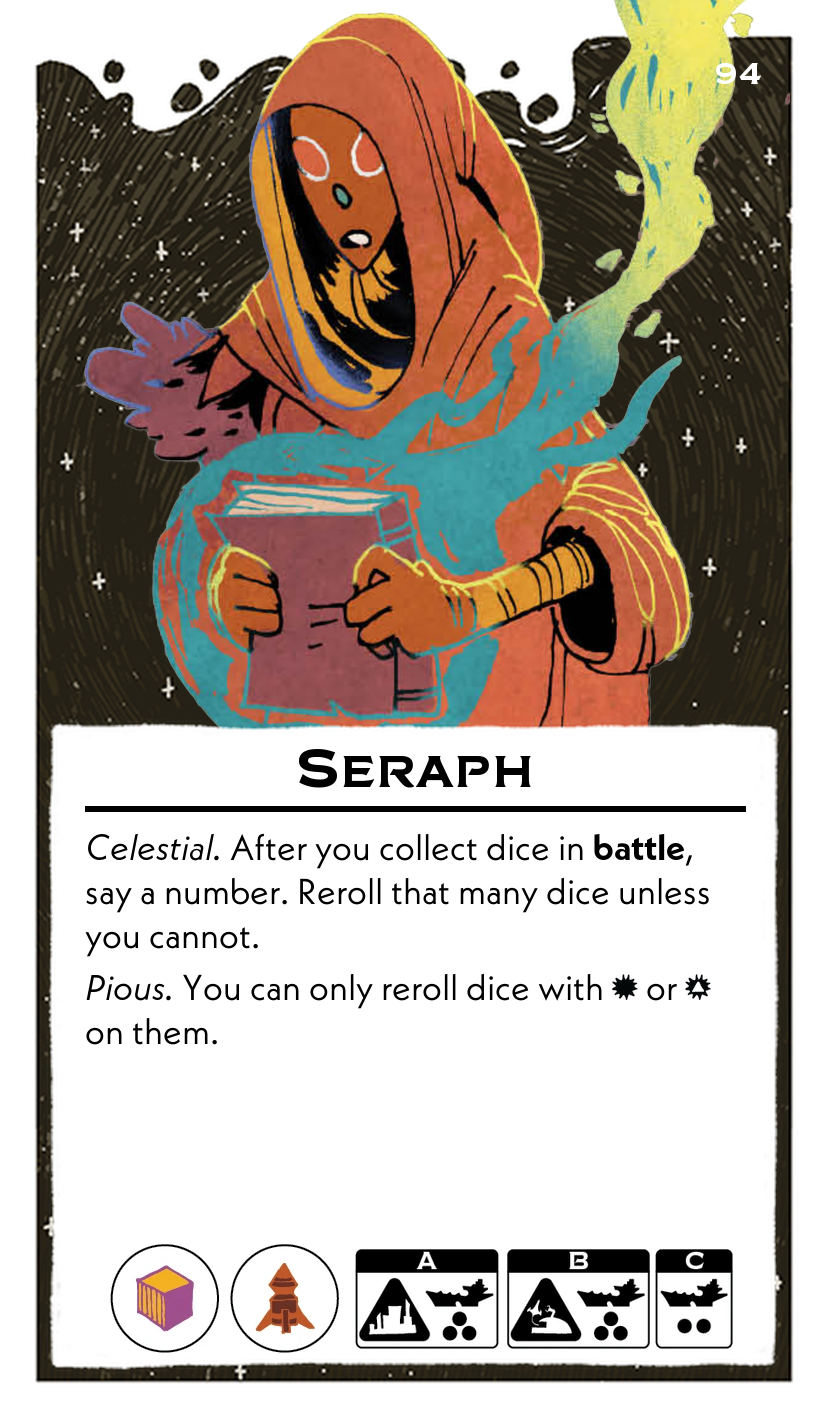
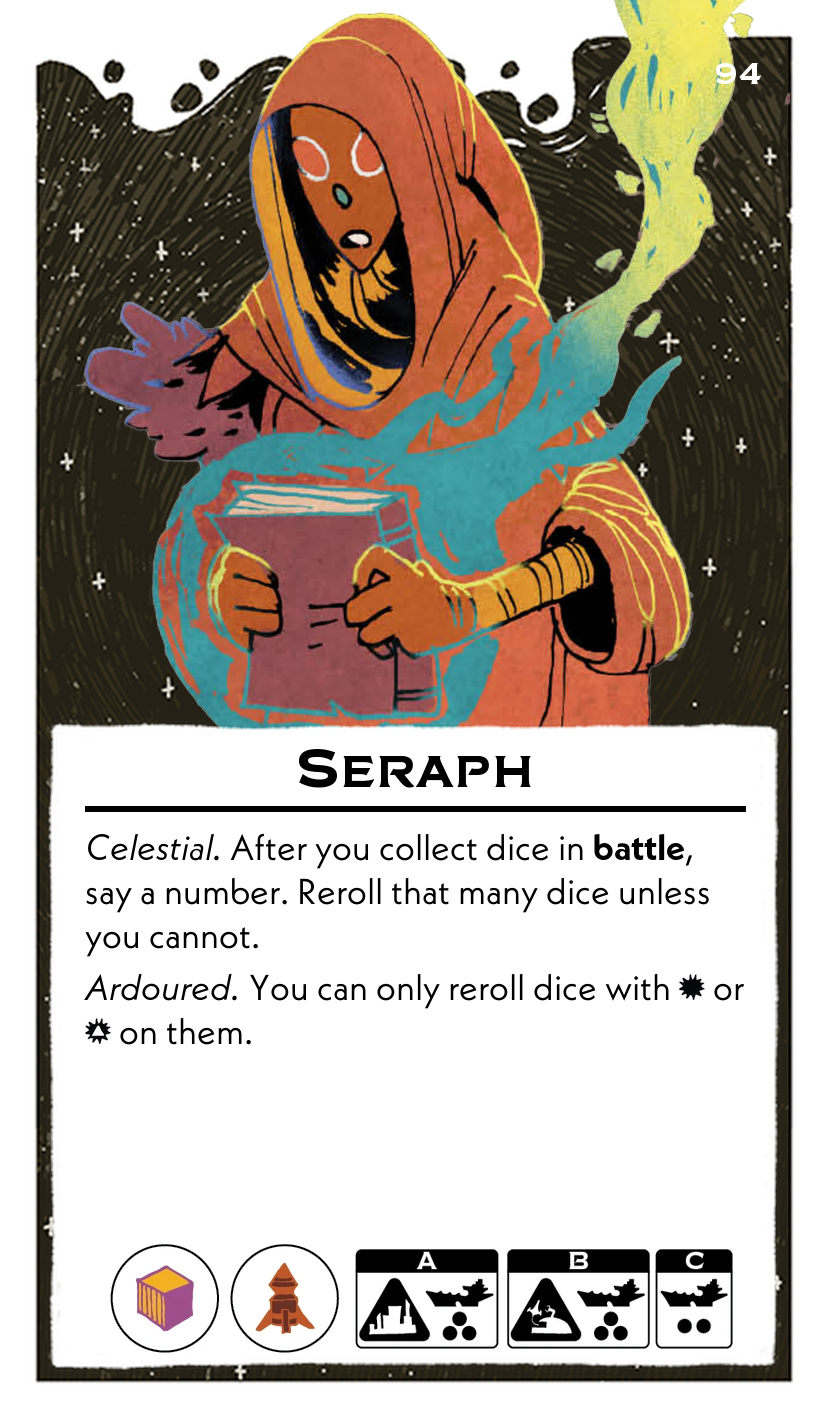
envoy syndic

Changed region(s): [[0.0907, 0.6831, 0.9069, 0.7452]]

diff --git a/scripts/leadersFormatted.py b/scripts/leadersFormatted.py
@@ -1439,7 +1439,7 @@ leaders = [
         "name": "Seraph",
         "abilities": (
             "*Celestial.* After you collect dice in **battle**, say a number. Reroll that many dice unless you cannot.\n"
-            "*Pious.* You can only reroll dice with {icon:dice_hit_black} or {icon:dice_building_hit_black} on them."
+            "*Ardoured.* You can only reroll dice with {icon:dice_hit_black} or {icon:dice_building_hit_black} on them."
         ),
         "resources": ["Material", "Weapon"],
         "setup": {
